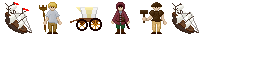
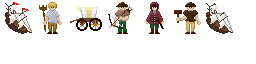
Research: Implement archery & animal husbandry

Changed region(s): [[0.4062, 0.0312, 0.9375, 0.5312]]

diff --git a/core/src/me/rhin/openciv/game/unit/type/Archer.java b/core/src/me/rhin/openciv/game/unit/type/Archer.java
@@ -1,0 +1,58 @@
+package me.rhin.openciv.game.unit.type;
+
+import me.rhin.openciv.asset.TextureEnum;
+import me.rhin.openciv.game.city.City;
+import me.rhin.openciv.game.map.tile.Tile;
+import me.rhin.openciv.game.map.tile.TileType.TileProperty;
+import me.rhin.openciv.game.research.type.ArcheryTech;
+import me.rhin.openciv.game.unit.Unit;
+import me.rhin.openciv.game.unit.UnitItem;
+import me.rhin.openciv.game.unit.UnitParameter;
+
+public class Archer extends UnitItem {
+
+	public Archer(City city) {
+		super(city);
+	}
+
+	public static class ArcherUnit extends Unit {
+
+		public ArcherUnit(UnitParameter unitParameter) {
+			super(unitParameter, TextureEnum.UNIT_ARCHER);
+			this.canAttack = true;
+		}
+
+		@Override
+		public int getMovementCost(Tile prevTile, Tile tile) {
+			if (tile.containsTileProperty(TileProperty.WATER))
+				return 1000000;
+			else
+				return tile.getMovementCost(prevTile);
+		}
+
+		@Override
+		public int getCombatStrength() {
+			return 14;
+		}
+	}
+
+	@Override
+	public int getProductionCost() {
+		return 40;
+	}
+
+	@Override
+	public boolean meetsProductionRequirements() {
+		return city.getPlayerOwner().getResearchTree().hasResearched(ArcheryTech.class);
+	}
+
+	@Override
+	public String getName() {
+		return "Archer";
+	}
+
+	@Override
+	public TextureEnum getTexture() {
+		return TextureEnum.UNIT_ARCHER;
+	}
+}

diff --git a/server/src/me/rhin/openciv/server/game/unit/type/Archer.java b/server/src/me/rhin/openciv/server/game/unit/type/Archer.java
@@ -1,0 +1,50 @@
+package me.rhin.openciv.server.game.unit.type;
+
+import me.rhin.openciv.server.game.Player;
+import me.rhin.openciv.server.game.city.City;
+import me.rhin.openciv.server.game.map.tile.Tile;
+import me.rhin.openciv.server.game.map.tile.TileType.TileProperty;
+import me.rhin.openciv.server.game.unit.Unit;
+import me.rhin.openciv.server.game.unit.UnitItem;
+
+public class Archer extends UnitItem {
+
+	public Archer(City city) {
+		super(city);
+	}
+
+	public static class ArcherUnit extends Unit {
+
+		public ArcherUnit(Player playerOwner, Tile standingTile) {
+			super(playerOwner, standingTile);
+		}
+
+		@Override
+		public int getMovementCost(Tile prevTile, Tile tile) {
+			if (tile.containsTileProperty(TileProperty.WATER))
+				return 1000000;
+			else
+				return tile.getMovementCost(prevTile);
+		}
+
+		@Override
+		public int getCombatStrength() {
+			return 14;
+		}
+	}
+
+	@Override
+	public int getProductionCost() {
+		return 40;
+	}
+
+	@Override
+	public boolean meetsProductionRequirements() {
+		return true;
+	}
+
+	@Override
+	public String getName() {
+		return "Archer";
+	}
+}

diff --git a/server/src/me/rhin/openciv/server/game/research/ResearchTree.java b/server/src/me/rhin/openciv/server/game/research/ResearchTree.java
@@ -8,6 +8,8 @@ import com.badlogic.gdx.utils.Json;
 
 import me.rhin.openciv.server.Server;
 import me.rhin.openciv.server.game.Player;
+import me.rhin.openciv.server.game.research.type.AnimalHusbandryTech;
+import me.rhin.openciv.server.game.research.type.ArcheryTech;
 import me.rhin.openciv.server.game.research.type.MiningTech;
 import me.rhin.openciv.server.game.research.type.PotteryTech;
 import me.rhin.openciv.server.game.research.type.SailingTech;
@@ -29,6 +31,8 @@ public class ResearchTree implements NextTurnListener {
 
 		// FIXME: This is going to be a crappton of techs
 		technologies.put(PotteryTech.class, new PotteryTech(this));
+		technologies.put(AnimalHusbandryTech.class, new AnimalHusbandryTech(this));
+		technologies.put(ArcheryTech.class, new ArcheryTech(this));
 		technologies.put(MiningTech.class, new MiningTech(this));
 		technologies.put(SailingTech.class, new SailingTech(this));
 

diff --git a/server/src/me/rhin/openciv/server/game/production/ProducibleItemManager.java b/server/src/me/rhin/openciv/server/game/production/ProducibleItemManager.java
@@ -13,6 +13,7 @@ import me.rhin.openciv.server.game.city.building.Building;
 import me.rhin.openciv.server.game.city.building.type.Granary;
 import me.rhin.openciv.server.game.city.building.type.Market;
 import me.rhin.openciv.server.game.city.building.type.Monument;
+import me.rhin.openciv.server.game.unit.type.Archer;
 import me.rhin.openciv.server.game.unit.type.Builder;
 import me.rhin.openciv.server.game.unit.type.Galley;
 import me.rhin.openciv.server.game.unit.type.Scout;
@@ -60,6 +61,7 @@ public class ProducibleItemManager implements NextTurnListener {
 		possibleItems.put("Galley", new Galley(city));
 		possibleItems.put("Builder", new Builder(city));
 		possibleItems.put("Work Boat", new WorkBoat(city));
+		possibleItems.put("Archer", new Archer(city));
 
 		Server.getInstance().getEventManager().addListener(NextTurnListener.class, this);
 	}

diff --git a/core/src/me/rhin/openciv/ui/window/type/PickResearchWindow.java b/core/src/me/rhin/openciv/ui/window/type/PickResearchWindow.java
@@ -25,7 +25,7 @@ public class PickResearchWindow extends AbstractWindow implements ResizeListener
 	private ClosePickResearchButton closePickResearchButton;
 
 	public PickResearchWindow(Technology tech) {
-		super.setBounds(viewport.getWorldWidth() / 2 - 250 / 2, viewport.getWorldHeight() / 2 - 300 / 2, 250, 300);
+		super.setBounds(viewport.getWorldWidth() / 2 - 270 / 2, viewport.getWorldHeight() / 2 - 300 / 2, 270, 300);
 		this.tech = tech;
 
 		this.coloredBackground = new ColoredBackground(TextureEnum.UI_LIGHT_GRAY.sprite(), 0, 0, getWidth(),
@@ -59,7 +59,7 @@ public class PickResearchWindow extends AbstractWindow implements ResizeListener
 
 	@Override
 	public void onResize(int width, int height) {
-		super.setPosition(width / 2 - 250 / 2, height / 2 - 300 / 2);
+		super.setPosition(width / 2 - 270 / 2, height / 2 - 300 / 2);
 	}
 
 	@Override

diff --git a/core/src/me/rhin/openciv/game/research/ResearchTree.java b/core/src/me/rhin/openciv/game/research/ResearchTree.java
@@ -4,6 +4,8 @@ import java.util.ArrayList;
 import java.util.LinkedHashMap;
 import java.util.List;
 
+import me.rhin.openciv.game.research.type.AnimalHusbandryTech;
+import me.rhin.openciv.game.research.type.ArcheryTech;
 import me.rhin.openciv.game.research.type.MiningTech;
 import me.rhin.openciv.game.research.type.PotteryTech;
 import me.rhin.openciv.game.research.type.SailingTech;
@@ -17,6 +19,8 @@ public class ResearchTree {
 
 		// FIXME: This is going to be a crappton of techs
 		technologies.put(PotteryTech.class, new PotteryTech());
+		technologies.put(AnimalHusbandryTech.class, new AnimalHusbandryTech());
+		technologies.put(ArcheryTech.class, new ArcheryTech());
 		technologies.put(MiningTech.class, new MiningTech());
 		technologies.put(SailingTech.class, new SailingTech());
 	}

diff --git a/core/src/me/rhin/openciv/game/production/ProducibleItemManager.java b/core/src/me/rhin/openciv/game/production/ProducibleItemManager.java
@@ -12,6 +12,7 @@ import me.rhin.openciv.game.city.City;
 import me.rhin.openciv.game.city.building.type.Granary;
 import me.rhin.openciv.game.city.building.type.Market;
 import me.rhin.openciv.game.city.building.type.Monument;
+import me.rhin.openciv.game.unit.type.Archer;
 import me.rhin.openciv.game.unit.type.Builder;
 import me.rhin.openciv.game.unit.type.Galley;
 import me.rhin.openciv.game.unit.type.Scout;
@@ -50,6 +51,7 @@ public class ProducibleItemManager {
 		possibleItems.put("Galley", new Galley(city));
 		possibleItems.put("Builder", new Builder(city));
 		possibleItems.put("Work Boat", new WorkBoat(city));
+		possibleItems.put("Archer", new Archer(city));
 	}
 
 	public HashMap<String, ProductionItem> getPossibleItems() {

diff --git a/core/src/me/rhin/openciv/ui/window/type/ResearchWindow.java b/core/src/me/rhin/openciv/ui/window/type/ResearchWindow.java
@@ -73,7 +73,7 @@ public class ResearchWindow extends AbstractWindow
 				requiredTechs++;
 			}
 
-			x += requiredTechs * 150;
+			x += requiredTechs * 170;
 
 			int sameXAxisLeafs = 0;
 			for (TechnologyLeaf otherLeaf : technologyLeafs) {
@@ -156,7 +156,7 @@ public class ResearchWindow extends AbstractWindow
 
 	private void addTech(Technology tech) {
 
-		float width = 125;
+		float width = 145;
 		float height = 75;
 
 		float x = 25;
@@ -171,7 +171,7 @@ public class ResearchWindow extends AbstractWindow
 			requiredTechs++;
 		}
 
-		x += requiredTechs * 150;
+		x += requiredTechs * 170;
 
 		ArrayList<TechnologyLeaf> rowLeafs = new ArrayList<>();
 		for (TechnologyLeaf leaf : technologyLeafs)

diff --git a/core/src/me/rhin/openciv/game/research/type/AnimalHusbandryTech.java b/core/src/me/rhin/openciv/game/research/type/AnimalHusbandryTech.java
@@ -1,0 +1,29 @@
+package me.rhin.openciv.game.research.type;
+
+import com.badlogic.gdx.graphics.g2d.Sprite;
+
+import me.rhin.openciv.asset.TextureEnum;
+import me.rhin.openciv.game.research.Technology;
+
+public class AnimalHusbandryTech extends Technology {
+
+	@Override
+	public int getScienceCost() {
+		return 35;
+	}
+
+	@Override
+	public String getName() {
+		return "Animal Husbandry";
+	}
+
+	@Override
+	public Sprite getIcon() {
+		return TextureEnum.TILE_HORSES.sprite();
+	}
+
+	@Override
+	public String getDesc() {
+		return "- Unlocks caravans\n" + "- Workers can build pastures";
+	}
+}

diff --git a/core/src/me/rhin/openciv/game/research/type/ArcheryTech.java b/core/src/me/rhin/openciv/game/research/type/ArcheryTech.java
@@ -1,0 +1,30 @@
+package me.rhin.openciv.game.research.type;
+
+import com.badlogic.gdx.graphics.g2d.Sprite;
+
+import me.rhin.openciv.asset.TextureEnum;
+import me.rhin.openciv.game.research.Technology;
+
+public class ArcheryTech extends Technology {
+
+	@Override
+	public int getScienceCost() {
+		return 35;
+	}
+
+	@Override
+	public String getName() {
+		return "Archery";
+	}
+
+	@Override
+	public Sprite getIcon() {
+		return TextureEnum.UNIT_ARCHER.sprite();
+	}
+
+	@Override
+	public String getDesc() {
+		return "- Unlocks archers";
+	}
+
+}

diff --git a/server/src/me/rhin/openciv/server/game/research/type/AnimalHusbandryTech.java b/server/src/me/rhin/openciv/server/game/research/type/AnimalHusbandryTech.java
@@ -1,0 +1,21 @@
+package me.rhin.openciv.server.game.research.type;
+
+import me.rhin.openciv.server.game.research.ResearchTree;
+import me.rhin.openciv.server.game.research.Technology;
+
+public class AnimalHusbandryTech extends Technology {
+
+	public AnimalHusbandryTech(ResearchTree researchTree) {
+		super(researchTree);
+	}
+
+	@Override
+	public int getScienceCost() {
+		return 35;
+	}
+
+	@Override
+	public String getName() {
+		return "Animal Husbandry";
+	}
+}

diff --git a/server/src/me/rhin/openciv/server/game/research/type/ArcheryTech.java b/server/src/me/rhin/openciv/server/game/research/type/ArcheryTech.java
@@ -1,0 +1,22 @@
+package me.rhin.openciv.server.game.research.type;
+
+import me.rhin.openciv.server.game.research.ResearchTree;
+import me.rhin.openciv.server.game.research.Technology;
+
+public class ArcheryTech extends Technology {
+
+	public ArcheryTech(ResearchTree researchTree) {
+		super(researchTree);
+	}
+
+	@Override
+	public int getScienceCost() {
+		return 35;
+	}
+
+	@Override
+	public String getName() {
+		return "Archery";
+	}
+
+}
